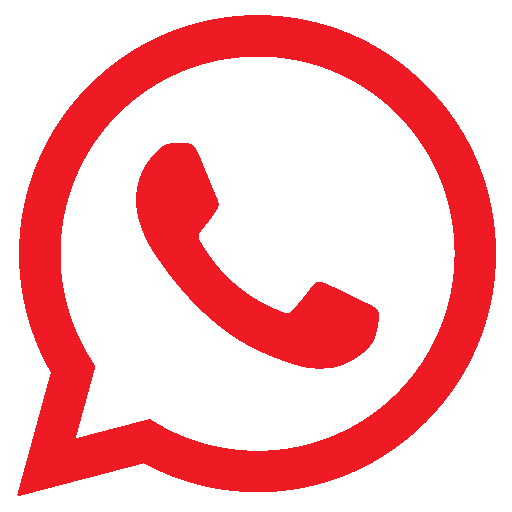
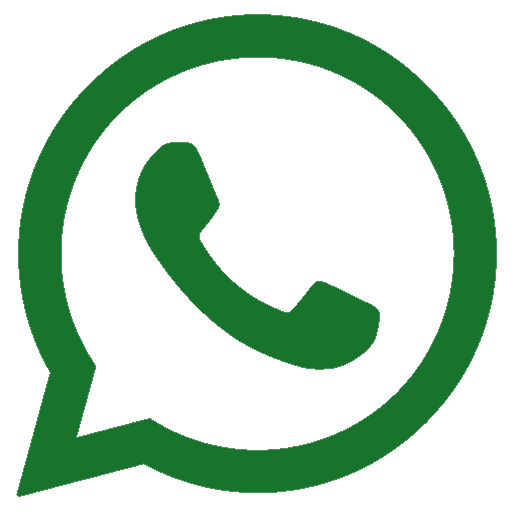
Update PF

diff --git a/styles/small.css b/styles/small.css
@@ -10,21 +10,25 @@ body {
 
   .titleSocial{
     position: absolute;
-    padding: 10px;
+    padding: 4px;
     display: flex;
     flex-direction: row;
     justify-content: space-between;
-    top: 1.5rem;
+    top: 0.8rem;
     right: 15px;
     left: 15px;
     background-color: #f2f2f2;
-    opacity: 0.85;
+    opacity: 0.9;
   }
 
   .logoTitle {
     display: flex;
     flex-direction: row;
   }
+
+  .logoTitleShort { display: flex;}
+
+  .logoTitleLarge { display: none;}
 
   .social {
     display: flex;
@@ -33,8 +37,8 @@ body {
 
    h1 {
     font-family: 'Titan One', cursive;
-    color: #ee1a24;
-    font-size: 0.9rem;
+    color: #18742c;
+    font-size: 1.2rem;
    }
 
    .socialIco {
@@ -52,7 +56,7 @@ body {
 
   .topnav {
     overflow: hidden;
-    background-color: #ee1a24;
+    background-color: #18742c;
   }
    
   .topnav a {
@@ -66,19 +70,27 @@ body {
   }
   
   .topnav a:hover {
-    background-color: #df7277;
-    color: black;
+    background-color: #34a84d;
+    color: f2f2f2;
     font-weight: bold;
     border: 1px solid #f2f2f2;
   }
   
   .topnav a.active {
-    background-color: #ee1a24;
-    color: white;
+    background-color: #34a84d;
+    color: #f2f2f2;
   }
   
   .topnav .icon {
     display: none;
+  }
+
+  main {
+    border: 1px solid #34a84d;
+  }
+
+  footer {
+      border: 1px solid #34a84d;
   }
   
   @media screen and (max-width: 600px) {
@@ -124,3 +136,23 @@ body {
     }
  
   }
+
+
+  @media only screen and (min-width: 603px) {
+
+  .logoTitleShort { display: none;}
+
+  .logoTitleLarge { display: flex;}
+
+
+  .titleSocial{
+    top: 1.5rem;
+    padding: 10px;
+  } 
+   h1 {
+    font-family: 'Titan One', cursive;
+    color: #18742c;
+    font-size: 1.9rem;
+   }
+
+  } 

diff --git a/index.html b/index.html
@@ -19,7 +19,8 @@
     <div class="titleSocial">
         <div class="logoTitle">
           <img class="bf-logo" src="images/bf-logo.png" alt="">
-          <h1>Bountiful <br> Foods</h1>
+          <h1 class="logoTitleShort">Bountiful <br> Foods</h1>
+          <h1 class="logoTitleLarge">Bountiful Foods</h1>  
         </div>  
         <div  class="social">
           <a href=""></a><img class="socialIco" src="images/facebook.png" alt="">
@@ -30,7 +31,7 @@
     </div>
     <div class="topnav" id="myTopnav">
       <a href="javascript:void(0);" class="icon" onclick="myFunction()">
-        <span>&#9776;</span><span>&#10006;</span>
+        <span>&#9776;</span><span>&#9932;</span>
       </a>
       <a href="#home" class="active">Home</a>
       <a href="#contact">Fresh</a>
@@ -38,14 +39,19 @@
     </div>
 
   </header>
+  <hr>
   <main>
     <div style="padding-left:16px">
       <h2>Responsive Topnav Example</h2>
       <p>Resize the browser window to see how it works.</p>
     </div>
   </main>
+  <hr>
   <footer>
-
+    <div style="padding-left:16px">
+      <h2>Responsive Topnav Example</h2>
+      <p>Resize the browser window to see how it works.</p>
+    </div>
   </footer>
 
   <script src="js/scripts.js">
